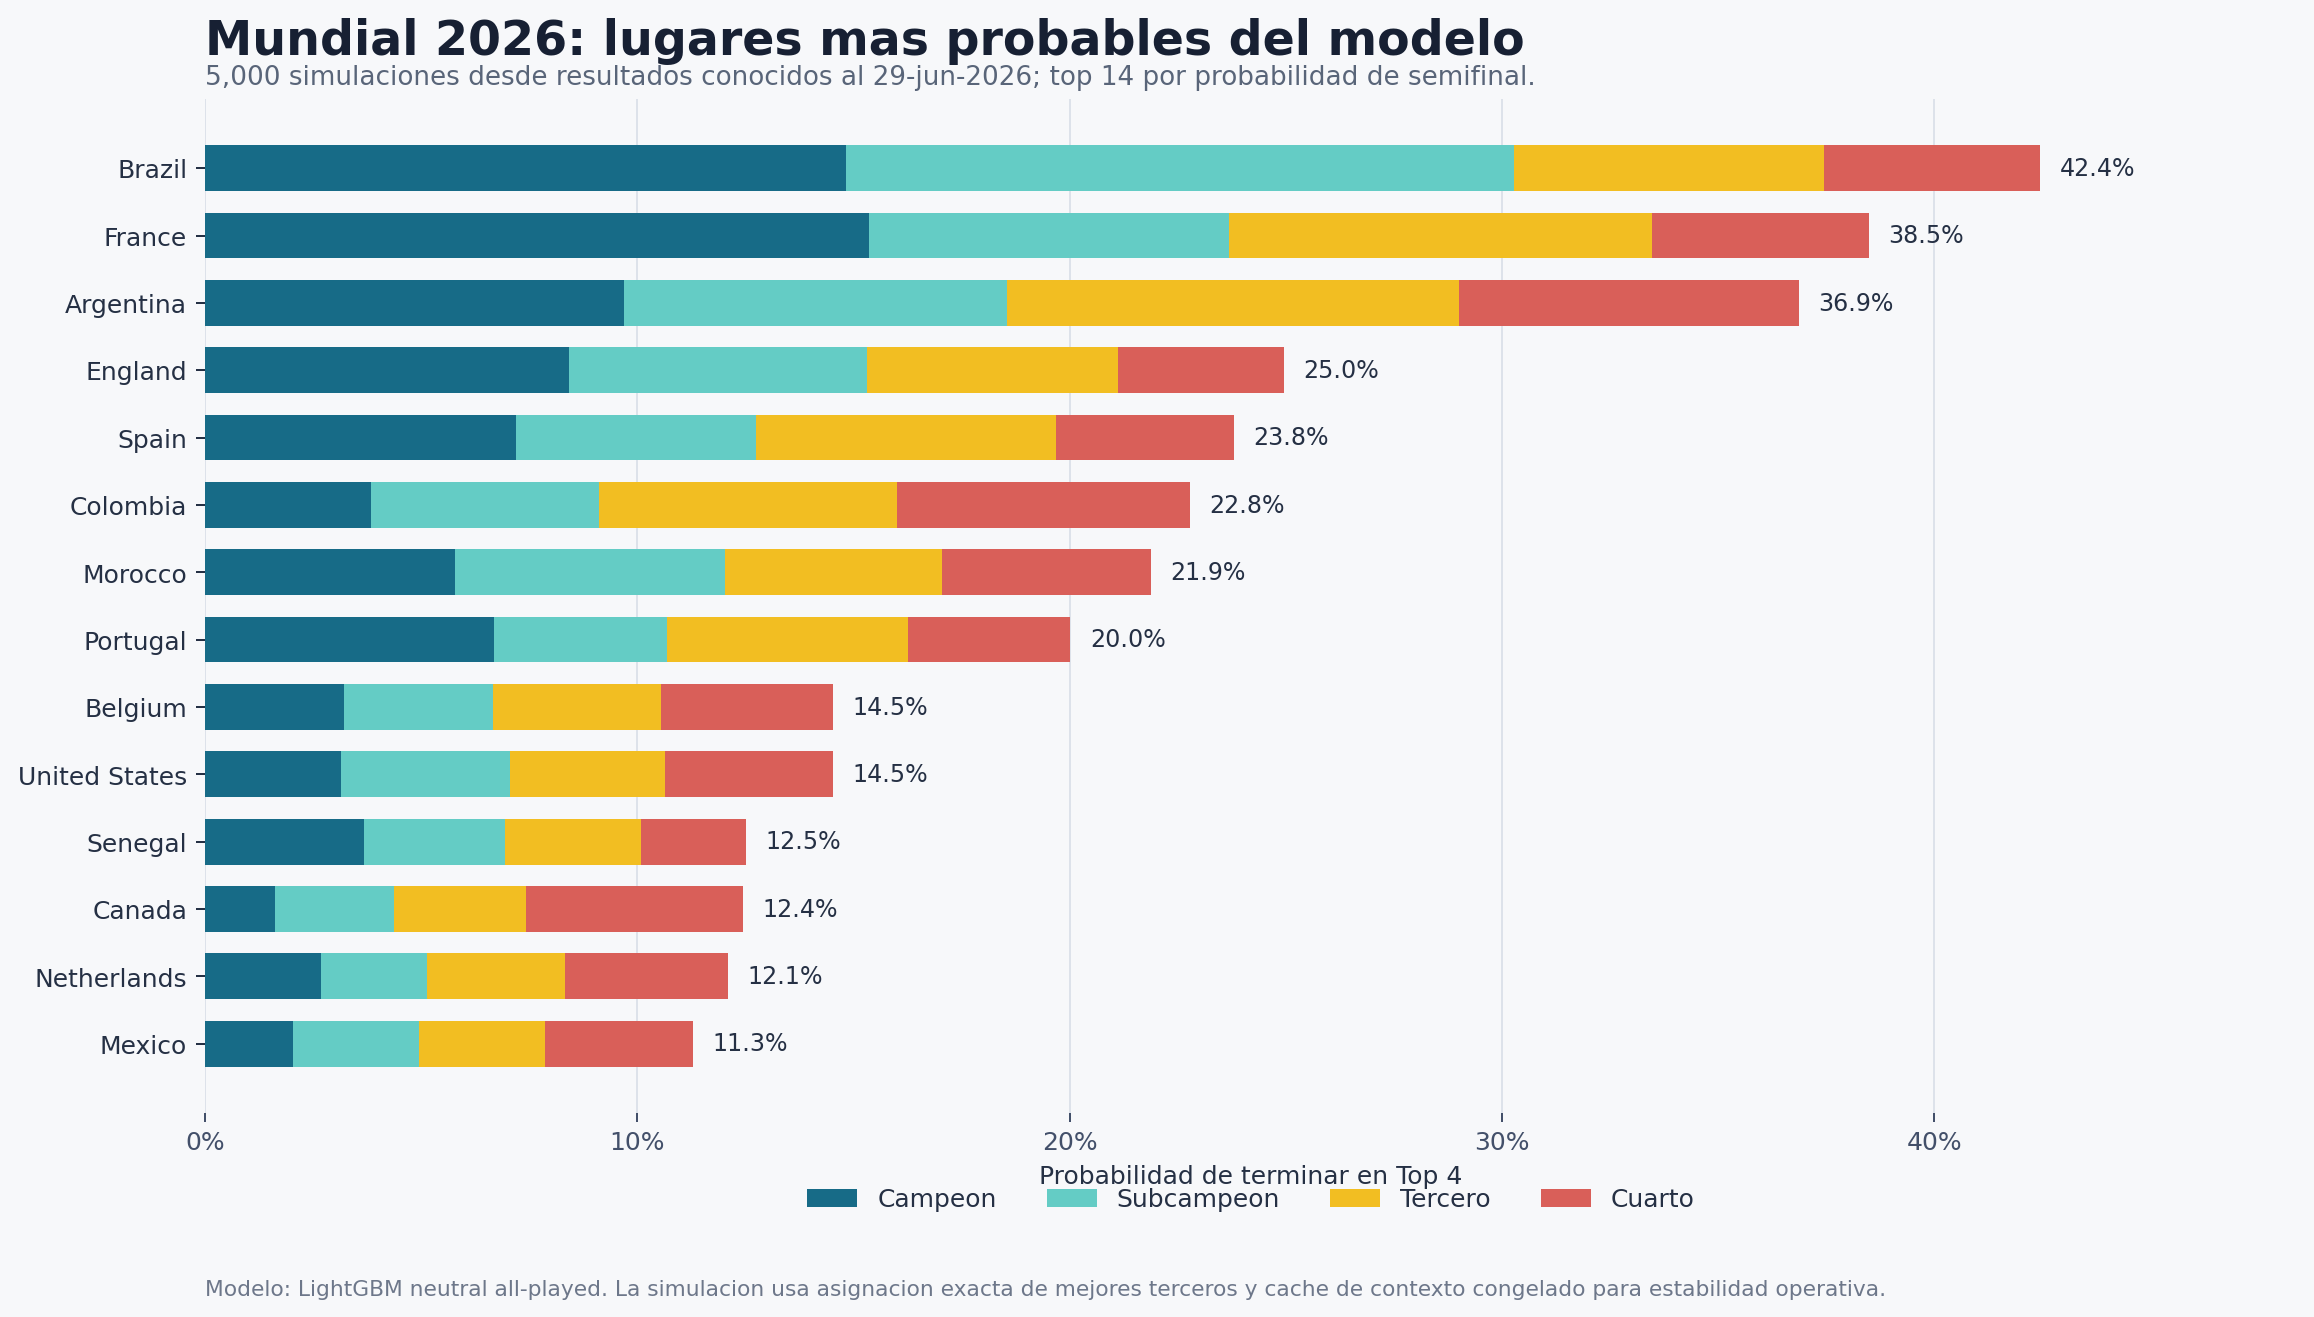
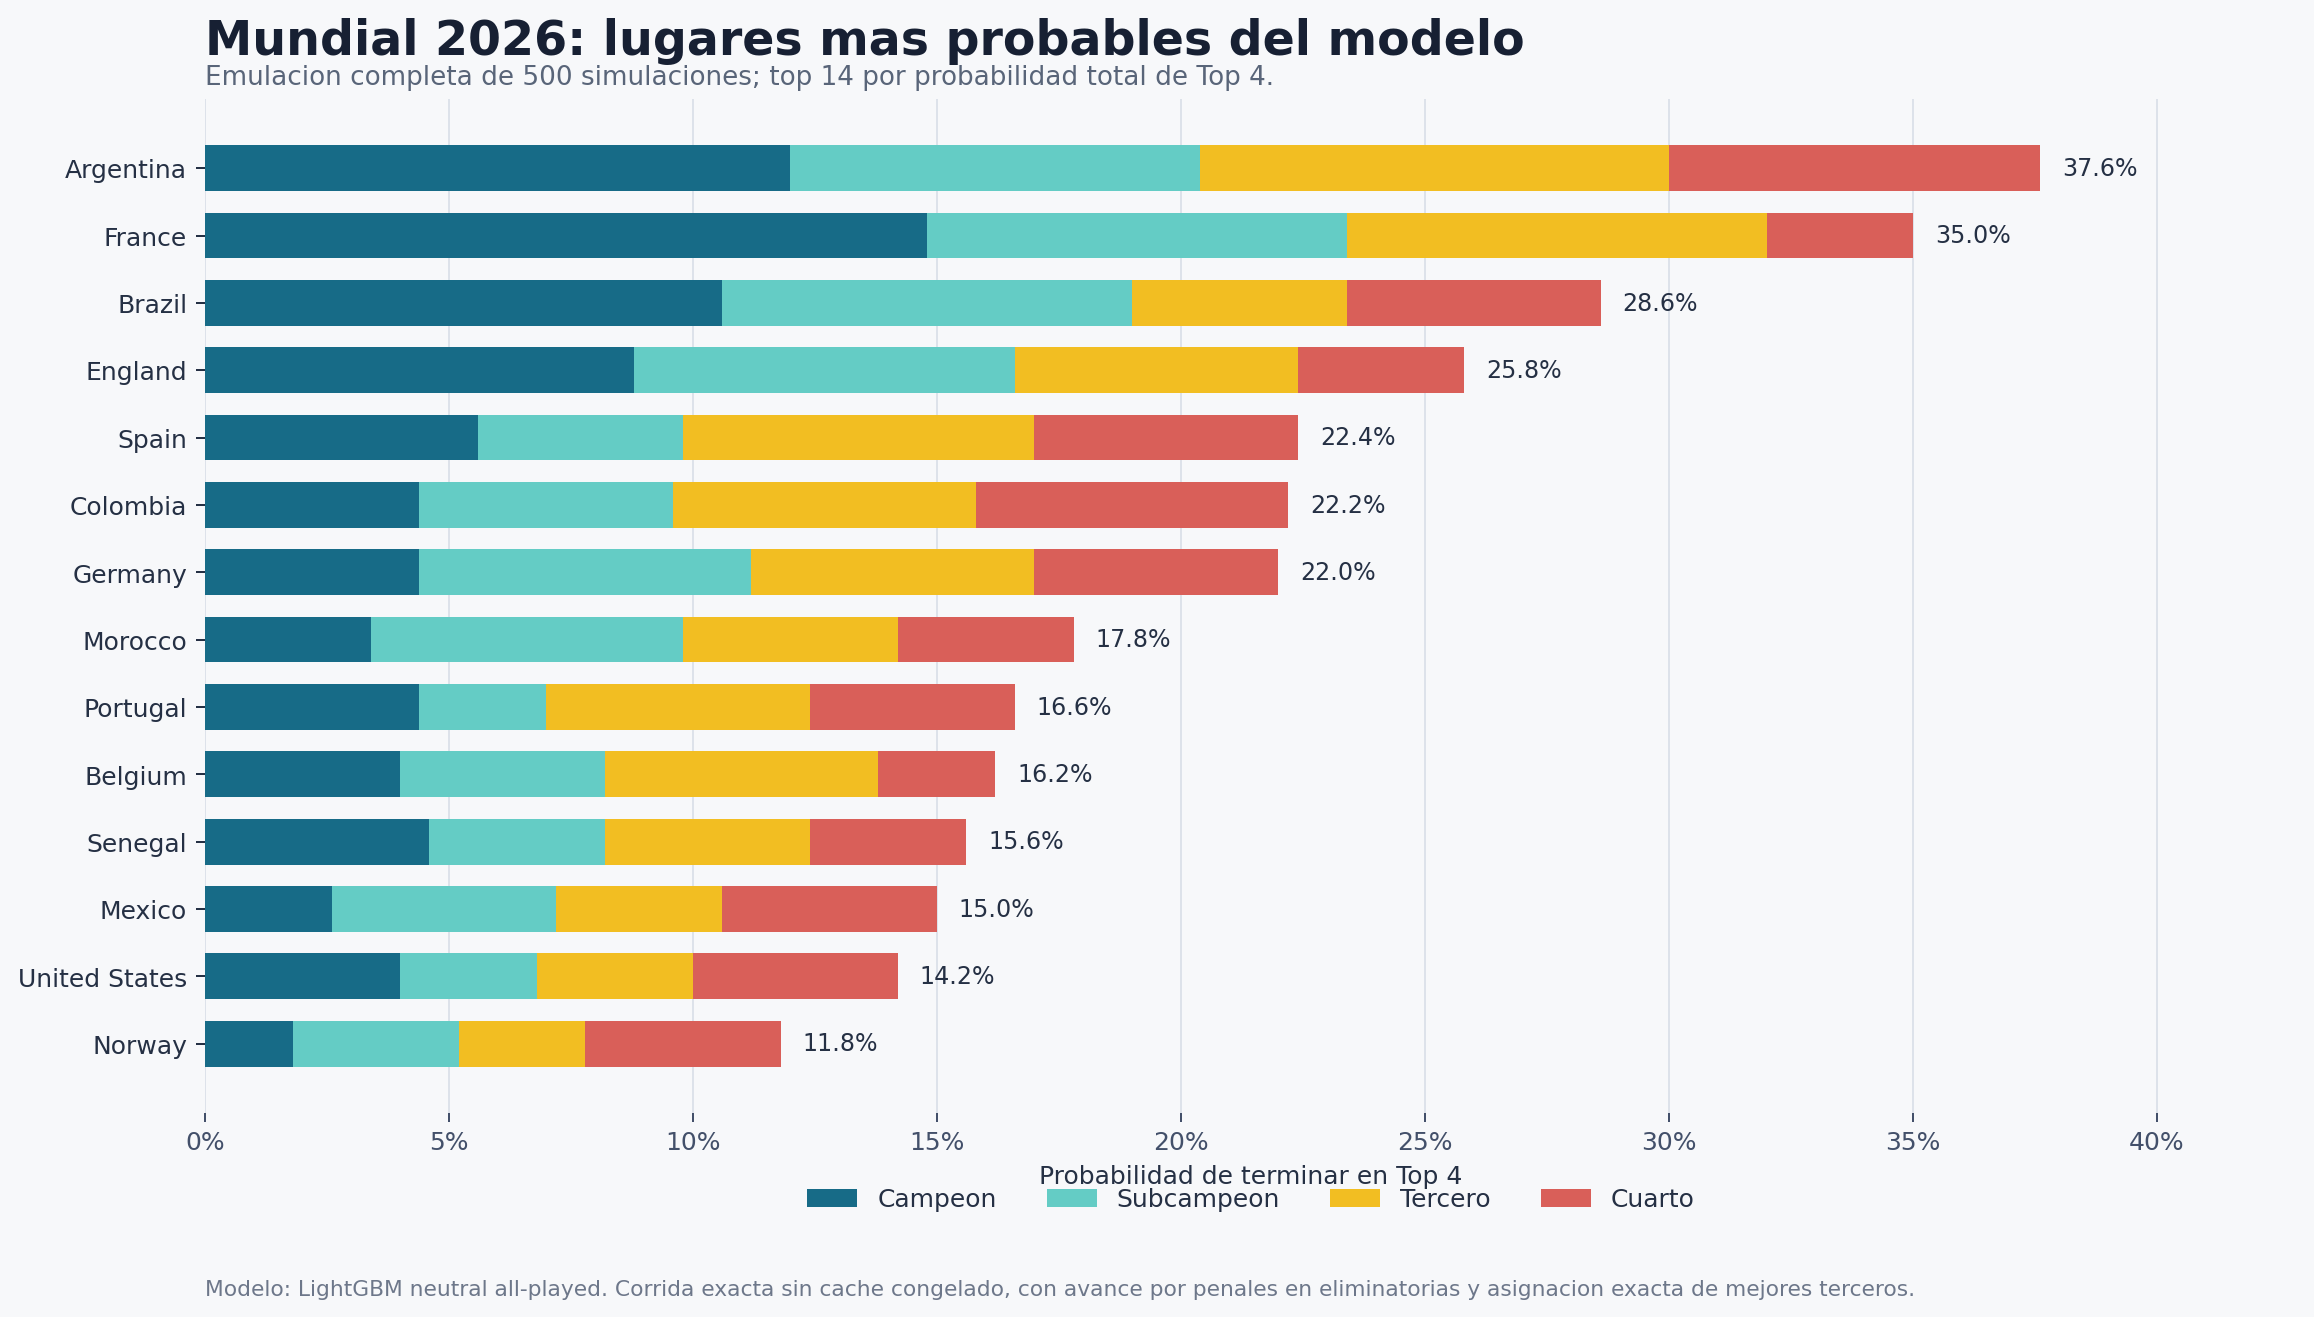
Use 500 simulation top four visual

diff --git a/README.md b/README.md
@@ -14,12 +14,11 @@ de 12 variables prepartido.
 
 ## Pronostico visual del torneo
 
-Con los resultados conocidos al 29 de junio de 2026, incluyendo Canada sobre
-Sudafrica, Brasil sobre Japon y Paraguay avanzando ante Alemania por penales, el
-modelo simula el resto del torneo y resume las probabilidades de terminar
-primero, segundo, tercero o cuarto. La grafica usa 5,000 simulaciones con el
-modelo `neutral_worldcup_v1_all_played_wc2026`, asignacion exacta de mejores
-terceros y cache de contexto congelado para estabilidad operativa.
+La grafica principal usa la emulacion completa de 500 simulaciones que corrimos
+con el modelo `neutral_worldcup_v1_all_played_wc2026`. Resume las
+probabilidades de terminar primero, segundo, tercero o cuarto, usando
+asignacion exacta de mejores terceros, avance por penales en eliminatorias y
+sin cache de contexto congelado.
 
 ![Probabilidades top 4 del Mundial 2026](docs/assets/worldcup_2026_top4_probabilities.png)
 